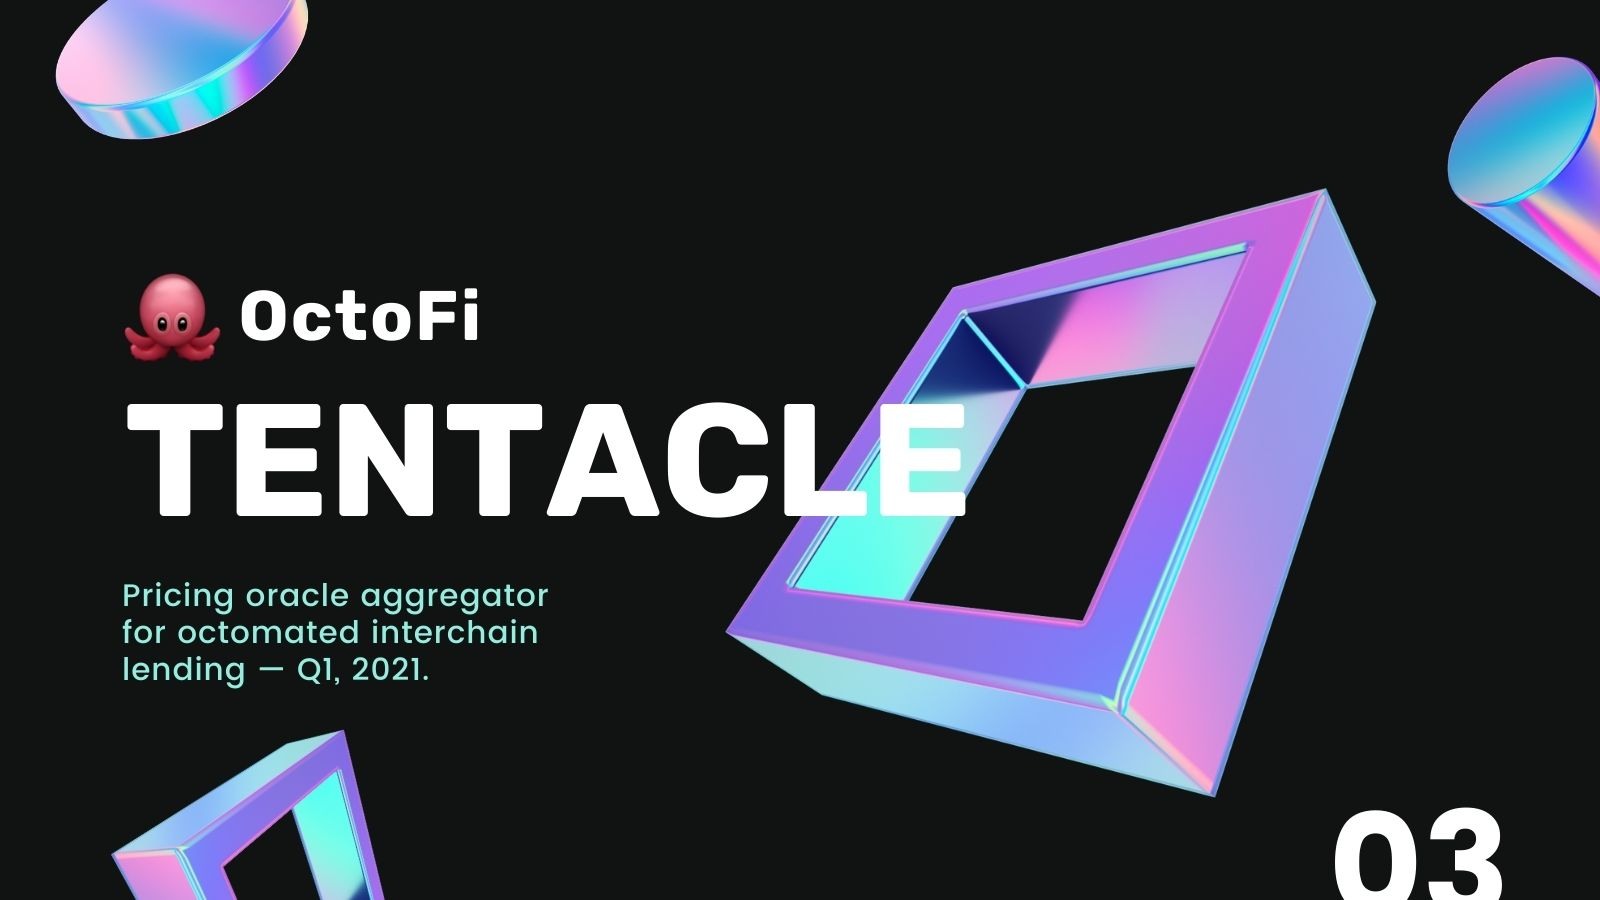
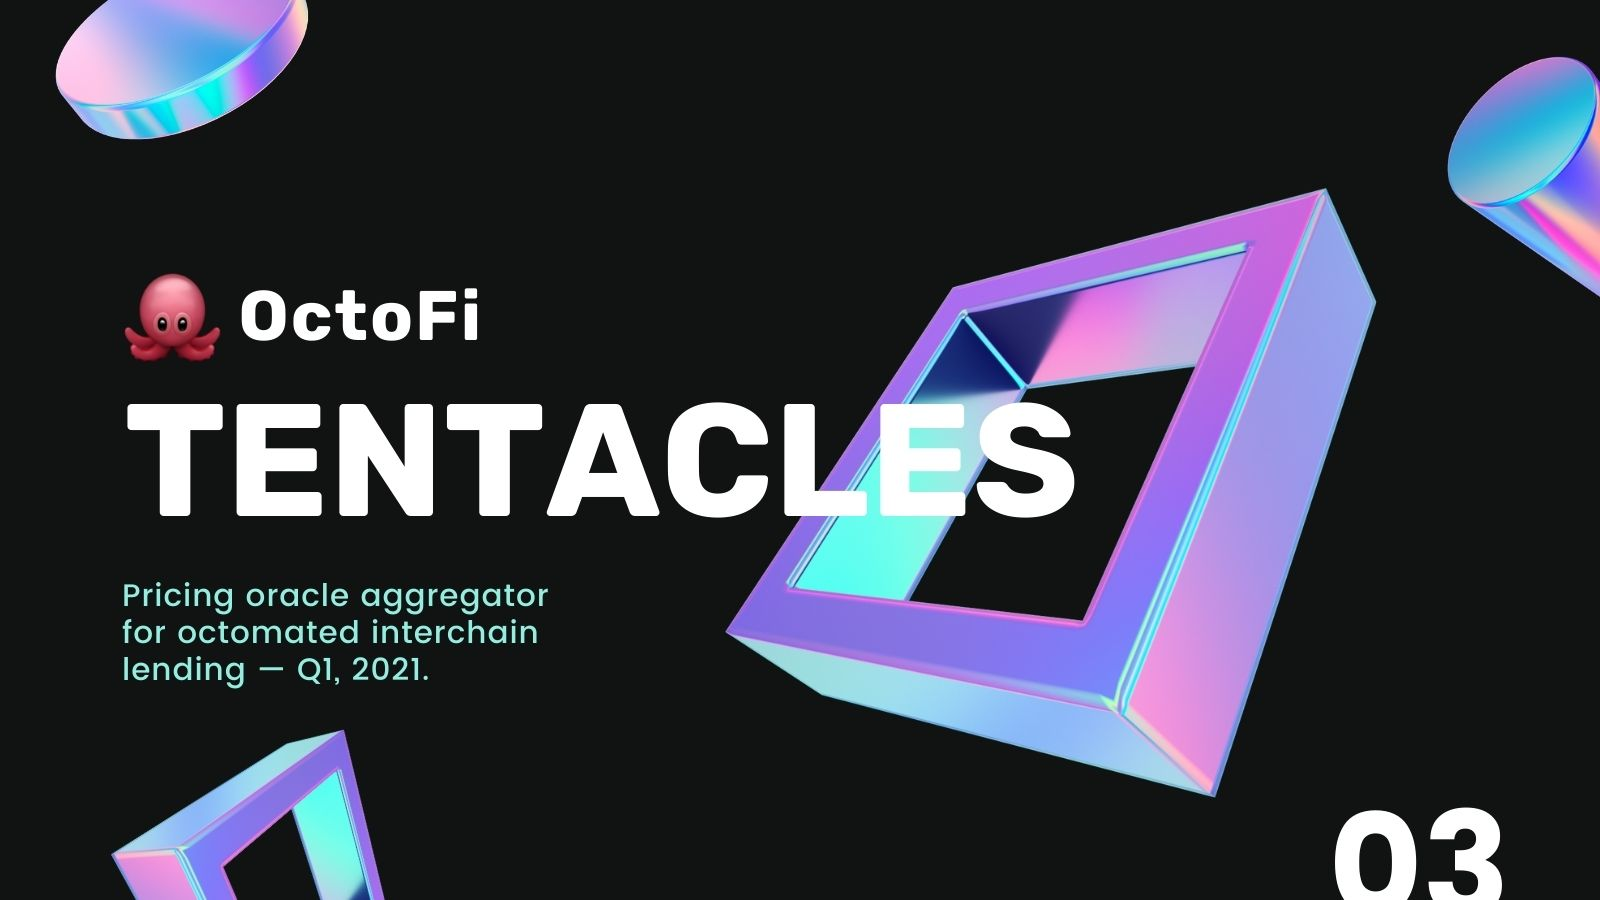
add some tentacles

Changed region(s): [[0.5938, 0.4356, 0.6875, 0.5911]]

diff --git a/_projects/2020-08-07-tentacles.md b/_projects/2020-08-07-tentacles.md
@@ -1,5 +1,5 @@
 ---
-title: Tentacle
+title: Tentacles
 subtitle: Pricing oracle aggregator for <i>octomated</i> interchain lending — Q1, 2021.
 date: 2020-08-09 00:00:00
 description: When the universe is infinitely expanding, why would you limit your yield farming to the earth? There's a whole galaxy of gains to wrap your space tentacles around.
